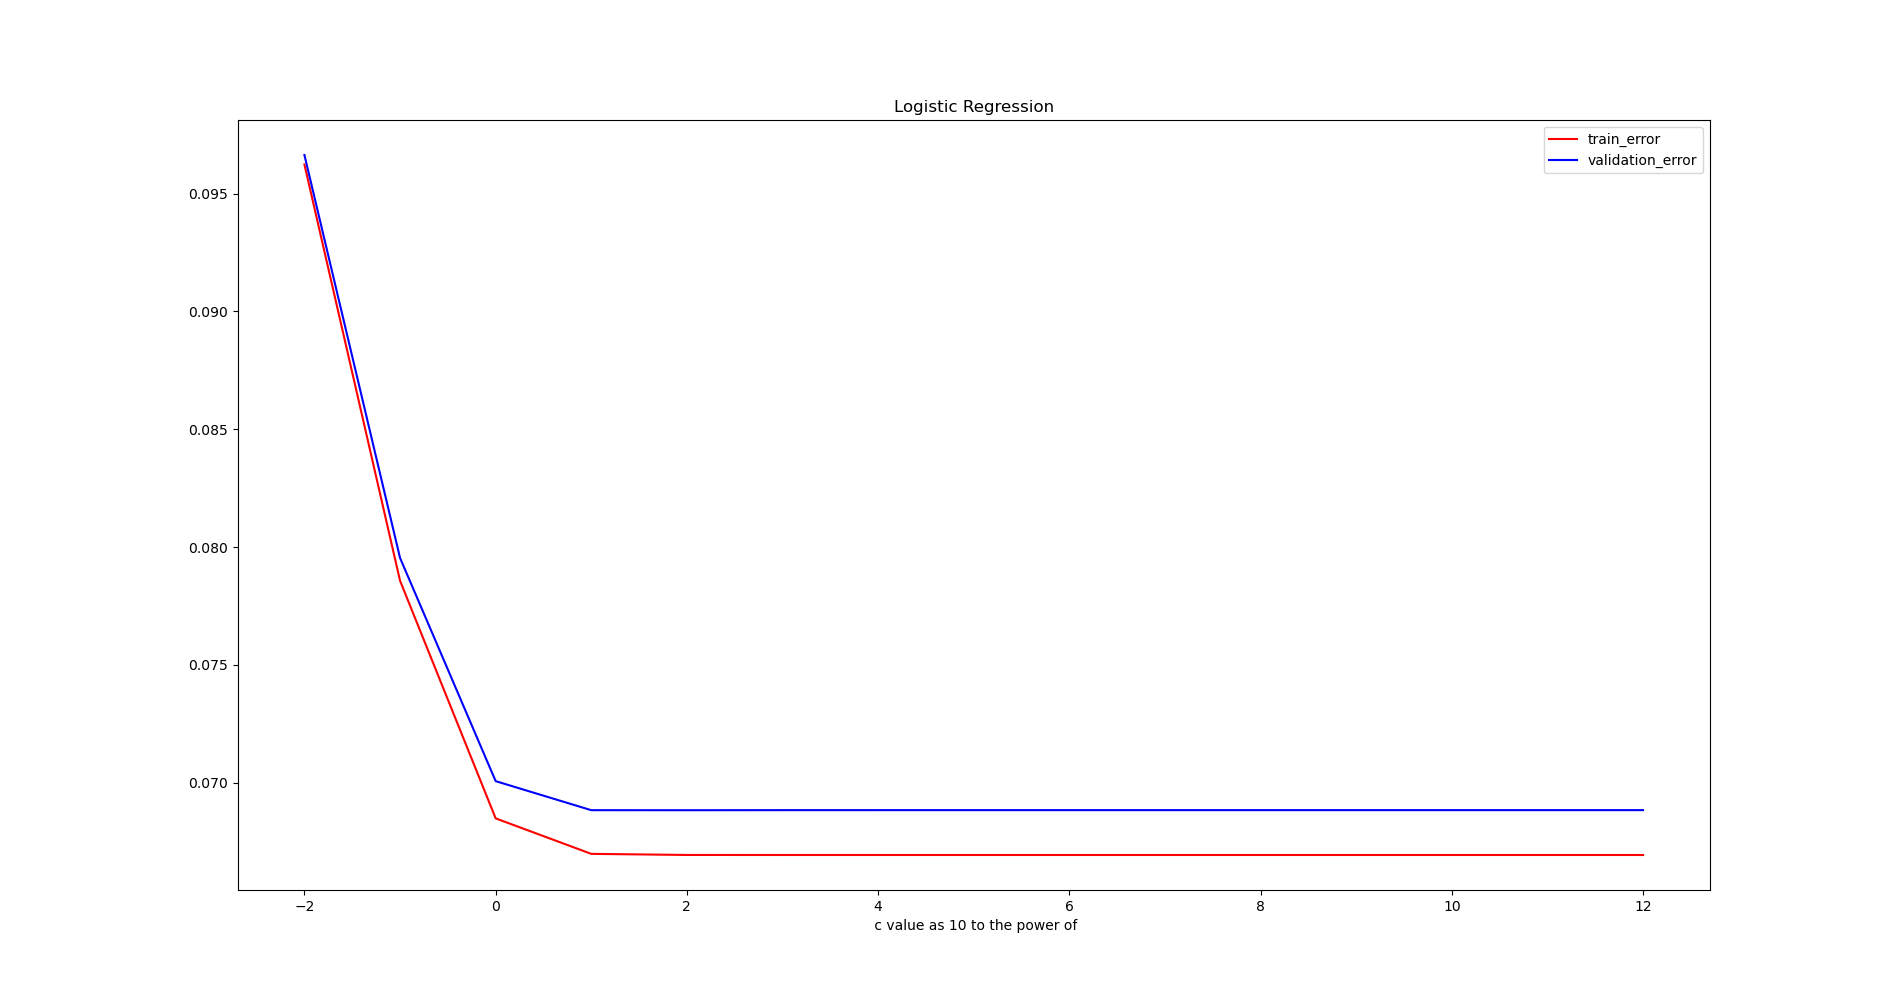
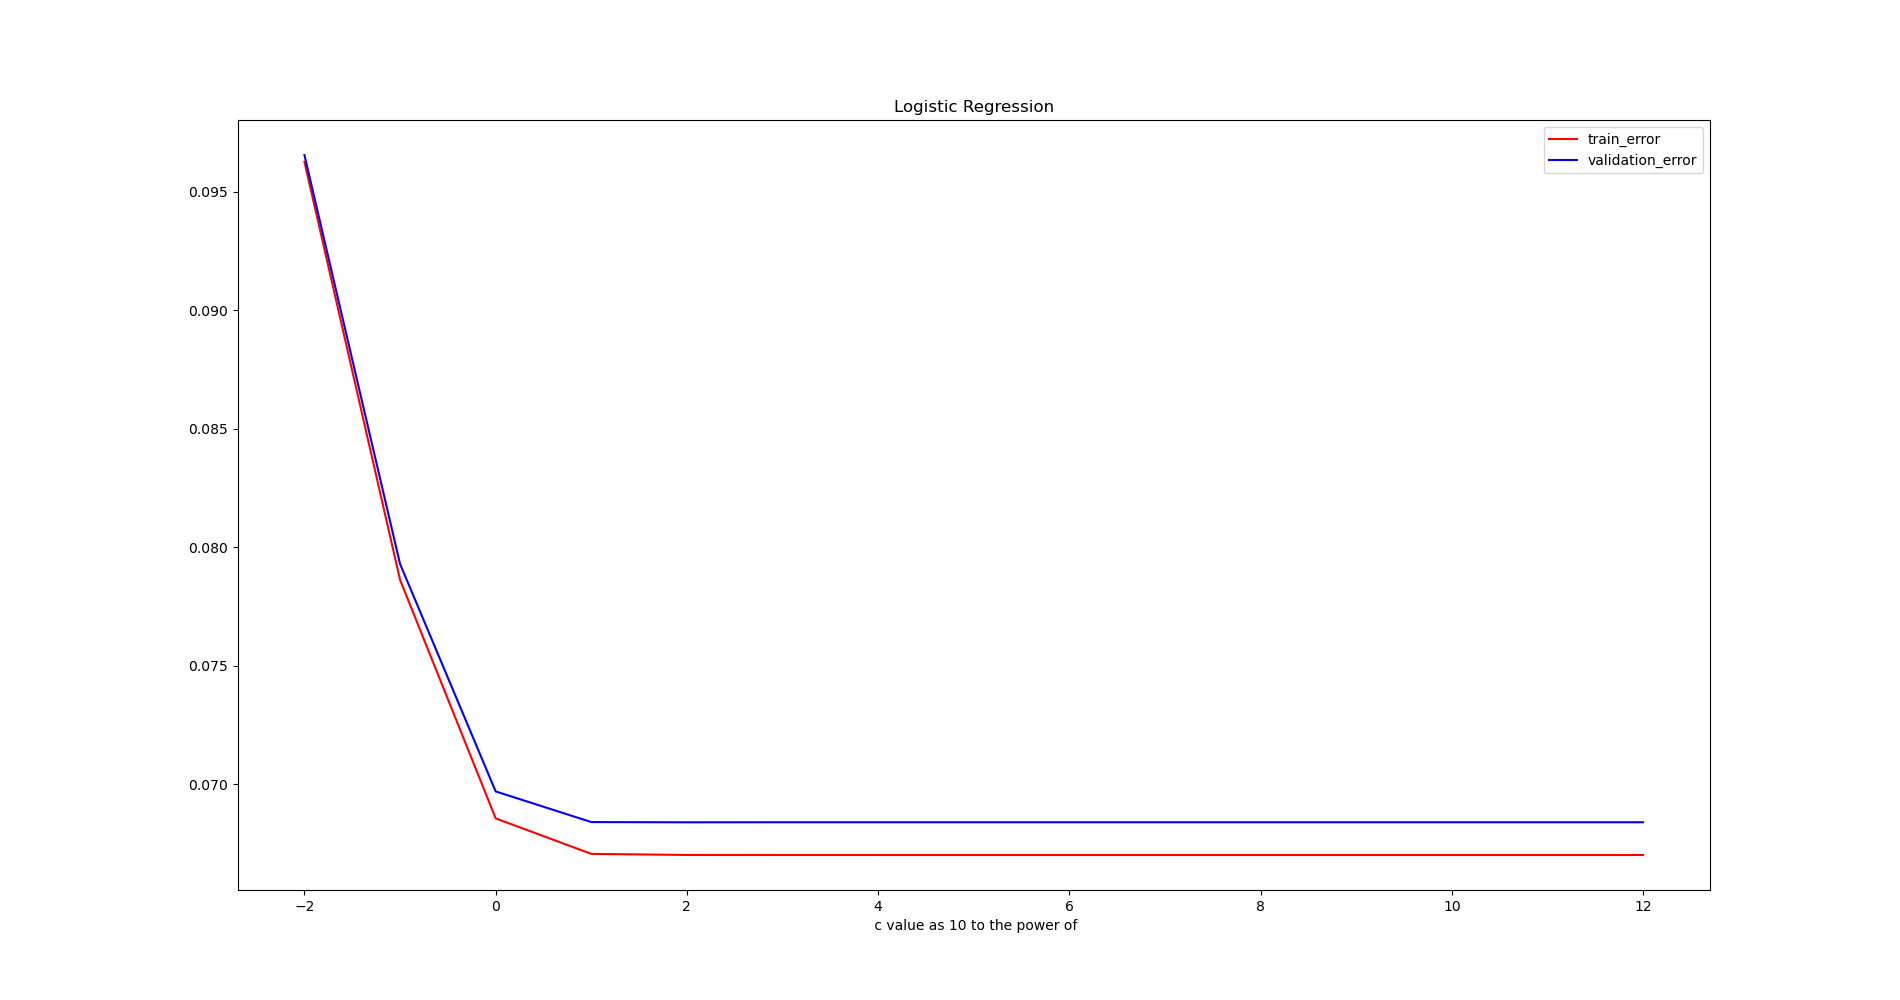
Approximate Normal Test Done

diff --git a/Project_1/TP1.py b/Project_1/TP1.py
@@ -27,11 +27,12 @@ from sklearn.model_selection import StratifiedKFold
 from sklearn.neighbors import KernelDensity
 from sklearn.metrics import accuracy_score
 from sklearn.naive_bayes import GaussianNB
+from math import sqrt
 
 from functools import partial
 from tqdm import tqdm
 
-tqdm = partial(tqdm, position=0, leave=True, )
+tqdm = partial(tqdm, position=0, leave=True)
 
 FOLDS = 5
 MAX_C_EXPONENT = 12
@@ -73,23 +74,23 @@ def logistic_regression(_train_data, _test_data, _c):
     reg.fit(_train_data[:, 0:FEATS], _train_data[:, FEATS])
     squares_train = (reg.predict_proba(_train_data[:, :FEATS])[:, 1] - _train_data[:, FEATS]) ** 2
     squares_test = (reg.predict_proba(_test_data[:, :FEATS])[:, 1] - _test_data[:, FEATS]) ** 2
-    return np.mean(squares_train), np.mean(squares_test)
+    return np.mean(squares_train), get_score(reg.predict(_test_data[:, 0:FEATS]), _test_data[:, FEATS], True), np.mean(squares_test)
+
+
+def get_score(predicted, mask, n=False):
+    return accuracy_score(predicted, mask, normalize=n)
 
 
 def custom_naive_bayes(_train_data, _test_data, _h):
     def separate_classes(feats, Ys):
         class1 = feats[np.where(Ys == 1)]
         class0 = feats[np.where(Ys == 0)]
-
         return class0, class1
 
     def calc_distrib(x_train, x_test):
         kde = KernelDensity(bandwidth=_h)
         kde.fit(np.reshape(x_train, (-1, 1)))
         return kde.score_samples(np.reshape(x_test, (-1, 1)))
-
-    def get_score(predicted, mask, n=False):
-        return accuracy_score(predicted, mask, normalize=n)
 
     def create_distrib_matrix(feats_train, feats_test):
         log_features = np.zeros(feats_test.shape)
@@ -118,31 +119,26 @@ def custom_naive_bayes(_train_data, _test_data, _h):
         classed_1 = classify(log_features_class0, class0_log, log_features_class1, class1_log, np.where(data_set[:, FEATS] == 1))
 
         predicted = np.append(classed_0, classed_1)
-        hit_mask = np.append(np.zeros(classed_0.shape), np.ones(classed_1.shape))
         error_mask = np.append(np.ones(classed_0.shape), np.zeros(classed_1.shape))
-        hits = get_score(predicted, hit_mask)
-        hit_percentage = get_score(predicted, hit_mask, True) * 100
-        errors = get_score(predicted, error_mask)
-        error_percentage = get_score(predicted, error_mask, True)
-
-        return error_percentage
+        return get_score(predicted, error_mask), get_score(predicted, error_mask, True)
 
     class0_train_points, class1_train_points = separate_classes(_train_data[:, 0:FEATS], _train_data[:, FEATS])
 
     train_log_features_class0 = create_distrib_matrix(class0_train_points, _train_data[:, 0:FEATS])
-
     train_log_features_class1 = create_distrib_matrix(class1_train_points, _train_data[:, 0:FEATS])
 
     test_log_features_class0 = create_distrib_matrix(class0_train_points, _test_data[:, 0:FEATS])
-
     test_log_features_class1 = create_distrib_matrix(class1_train_points, _test_data[:, 0:FEATS])
 
     total = _train_data.shape[0]
     log_class0 = np.log(float(class0_train_points.shape[0]) / total)
     log_class1 = np.log(float(class1_train_points.shape[0]) / total)
-    return\
-        custom_naive_bayes_score(_train_data, train_log_features_class0, train_log_features_class1, log_class0, log_class1),\
+    train_errors, train_error_percentage = \
+        custom_naive_bayes_score(_train_data, train_log_features_class0, train_log_features_class1, log_class0, log_class1)
+
+    test_errors, test_error_percentage = \
         custom_naive_bayes_score(_test_data, test_log_features_class0, test_log_features_class1, log_class0, log_class1)
+    return train_error_percentage, test_errors, test_error_percentage
 
 
 def cross_validation(_train_data, p_values, clf_function, kf):
@@ -155,7 +151,9 @@ def cross_validation(_train_data, p_values, clf_function, kf):
         va_err = 0
         tr_err = 0
         for tr_ix, va_ix in kf.split(_train_data[:, 4], _train_data[:, 4]):
-            fold_train_err, fold_va_err = clf_function(_train_data[tr_ix], _train_data[va_ix], p)
+            result = clf_function(_train_data[tr_ix], _train_data[va_ix], p)
+            fold_train_err = result[0]
+            fold_va_err = result[2]
             va_err += fold_va_err
             tr_err += fold_train_err
         tr_errs[counter] = tr_err / FOLDS
@@ -170,11 +168,18 @@ def cross_validation(_train_data, p_values, clf_function, kf):
 def gaussian_naive_bayes(_train_data, _test_data):
     clf = GaussianNB()
     clf.fit(_train_data[:, 0:4], _train_data[:, 4])
-    return clf.score(_test_data[:, 0:4], _test_data[:, 4])
+    return _test_data.shape[0] - get_score(clf.predict(_test_data[:, 0:4]), _test_data[:, 4], False), \
+           1 - get_score(clf.predict(_test_data[:, 0:4]), _test_data[:, 4], True)
 
 
-def approximate_normal_test():
-    pass
+def approximate_normal_test(_train_data, _test_data, clf_function, p=any):
+    n = _test_data.shape[0]
+    if p != any:
+        err, err_prob = clf_function(_train_data, _test_data, p)[1:]
+    else:
+        err, err_prob = clf_function(_train_data, _test_data)
+    theta = sqrt(err * (1 - err / n))
+    return n * err_prob, 1.96 * theta
 
 
 def mc_nemars_test():
@@ -185,9 +190,7 @@ np.set_printoptions(precision=4)
 test_data = np.loadtxt('TP1_test.tsv')
 train_data = np.loadtxt('TP1_train.tsv')
 train_data, test_data = standardize(shuffle(train_data), shuffle(test_data))
-
 folds = StratifiedKFold(n_splits=FOLDS)
-
 c_values = list(map(lambda x: 10 ** x, range(MIN_C_EXPONENT, MAX_C_EXPONENT + 1)))
 h_values = list(map(lambda x: x / 100, range(MIN_KDE, MAX_KDE, KDE_STEP)))
 
@@ -197,7 +200,13 @@ h, h_tr_errs, h_va_errs = cross_validation(train_data, h_values, custom_naive_ba
 plot_errs(np.log10(c_values), c_tr_errs, c_va_errs, 'Logistic Regression', ' c value as 10 to the power of', "LR.png")
 plot_errs(h_values, h_tr_errs, h_va_errs, 'KDE based Naive Bayes', 'h value: bandwidth', "NB.png")
 
-
+print("--------------CrossValidation--------------")
 print("C found: " + str(c))
 print("H found: " + str(h))
-gaussian_naive_bayes(train_data, test_data)
+print("-------Approximate Normal Test (95%)-------")
+print("Logistic Regression: {0[0]:0.2f} ± {0[1]:0.2f}".format(approximate_normal_test(train_data, test_data, logistic_regression, c)))
+print("Custom gaussian naive bayes: {0[0]:0.2f} ± {0[1]:0.2f}".format(approximate_normal_test(train_data, test_data, custom_naive_bayes, h)))
+print("Gaussian naive bayes: {0[0]:0.2f} ± {0[1]:0.2f}".format(approximate_normal_test(train_data, test_data, gaussian_naive_bayes)))
+print("-------------------------------------------")
+print("--------------McNemar's Test---------------")
+print("-------------------------------------------")
